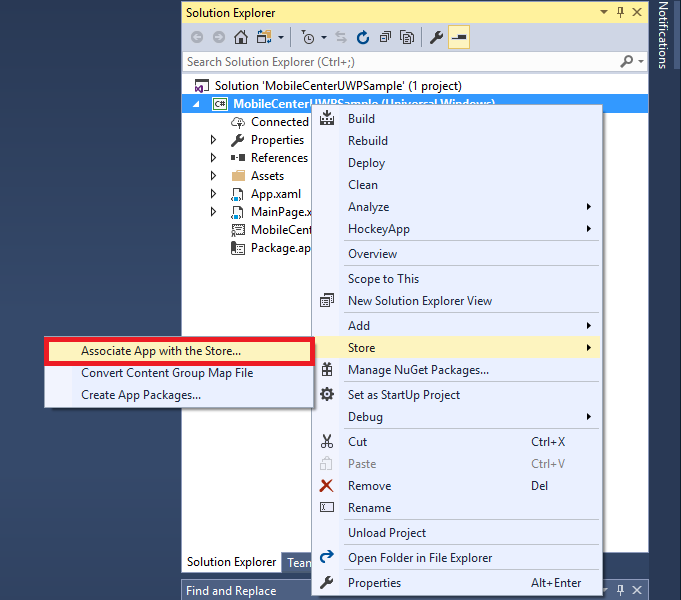
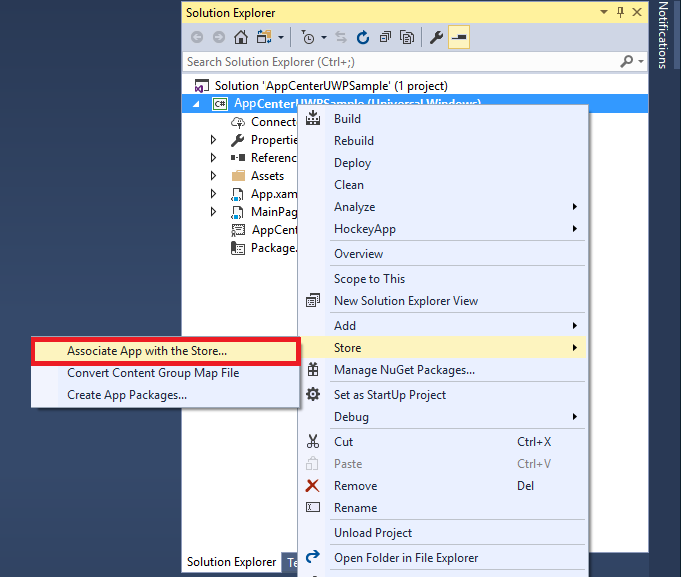
Update SDK documentation for renaming (#338)

Changed region(s): [[0.0308, 0.0, 1.0, 1.0], [0.7401, 0.7175, 0.8326, 0.8735]]

diff --git a/vs-mobile-center-docs/sdk/troubleshooting/ios.md b/vs-mobile-center-docs/sdk/troubleshooting/ios.md
@@ -40,7 +40,7 @@ dev_langs:
     [MSAppCenter setLogLevel:MSLogLevelVerbose]
     ```
     ```swift
-    MSAppCenter.setLogLevel(MSLogLevel.Verbose)
+    MSAppCenter.setLogLevel(.verbose)
     ```
 	
 5. Make sure your device is online.
@@ -59,7 +59,7 @@ dev_langs:
     [MSAppCenter setLogLevel:MSLogLevelVerbose]
     ```
     ```swift
-    MSAppCenter.setLogLevel(MSLogLevel.Verbose)
+    MSAppCenter.setLogLevel(.verbose)
     ```
 
 6. Don't use any other library that provides Crash Reporting functionality. You can only have one crash reporting SDK integrated in your app.

diff --git a/vs-mobile-center-docs/sdk/troubleshooting/macos.md b/vs-mobile-center-docs/sdk/troubleshooting/macos.md
@@ -40,7 +40,7 @@ dev_langs:
     [MSAppCenter setLogLevel:MSLogLevelVerbose]
     ```
     ```swift
-    MSAppCenter.setLogLevel(MSLogLevel.Verbose)
+    MSAppCenter.setLogLevel(.verbose)
     ```
 	
 5. Make sure your device is online.
@@ -59,7 +59,7 @@ dev_langs:
     [MSAppCenter setLogLevel:MSLogLevelVerbose]
     ```
     ```swift
-    MSAppCenter.setLogLevel(MSLogLevel.Verbose)
+    MSAppCenter.setLogLevel(.verbose)
     ```
 
 6. Don't use any other library that provides Crash Reporting functionality. You can only have one crash reporting SDK integrated in your app.

diff --git a/vs-mobile-center-docs/sdk/getting-started/macos.md b/vs-mobile-center-docs/sdk/getting-started/macos.md
@@ -30,7 +30,7 @@ Let's get started with setting up App Center macOS SDK in your app to use App Ce
 
 The following requirements must be met to use App Center SDK:
 
-* Your macOS project is set up in Xcode 8 or later on macOS version 10.12.
+* Your macOS project is set up in Xcode 8 or later on macOS version 10.12 or later.
 * You are targeting devices running on macOS 10.9 or later.
 * You are not using any other library that provides Crash Reporting functionality.
 

diff --git a/vs-mobile-center-docs/sdk/push/ios-apns-setup.md b/vs-mobile-center-docs/sdk/push/ios-apns-setup.md
@@ -2,7 +2,7 @@
 
 Log in to the App Center portal, select your application, click on the **Push** button from the left menu then click **Next** to reveal the push notification settings UI:
 
-![app-center-push-settings](images/apple-push-settings-mc-portal.png)
+![app-center-push-settings](images/apple-push-settings-ac-portal.png)
 
 * On the bottom of the page, select **Sandbox** for initial development or **Production** for production version of your application.
 

diff --git a/vs-mobile-center-docs/sdk/push/macos-apns-setup.md b/vs-mobile-center-docs/sdk/push/macos-apns-setup.md
@@ -2,7 +2,7 @@
 
 Log in to the App Center portal, select your application, click on the **Push** button from the left menu then click **Next** to reveal the push notification settings UI:
 
-![app-center-push-settings](images/apple-push-settings-mc-portal.png)
+![app-center-push-settings](images/apple-push-settings-ac-portal.png)
 
 * On the bottom of the page, select **Sandbox** for initial development or **Production** for production version of your application.
 

diff --git a/vs-mobile-center-docs/sdk/getting-started/ios.md b/vs-mobile-center-docs/sdk/getting-started/ios.md
@@ -30,7 +30,7 @@ Let's get started with setting up App Center iOS SDK in your app to use App Cent
 
 The following requirements must be met to use App Center SDK:
 
-* Your iOS project is set up in Xcode 8 or later on macOS version 10.12.
+* Your iOS project is set up in Xcode 8 or later on macOS version 10.12 or later.
 * You are targeting devices running on iOS 8.0 or later.
 * You are not using any other library that provides Crash Reporting functionality.
 
